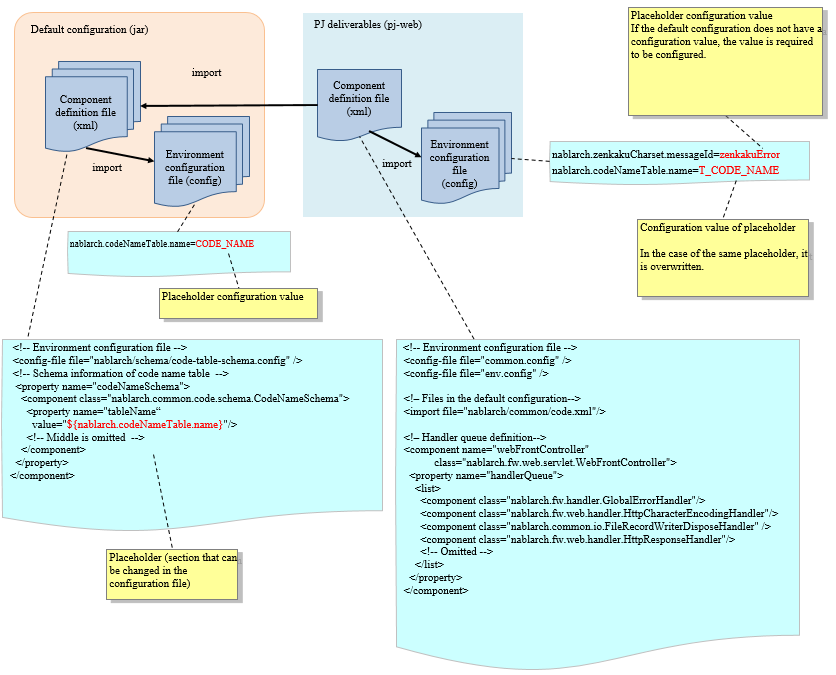
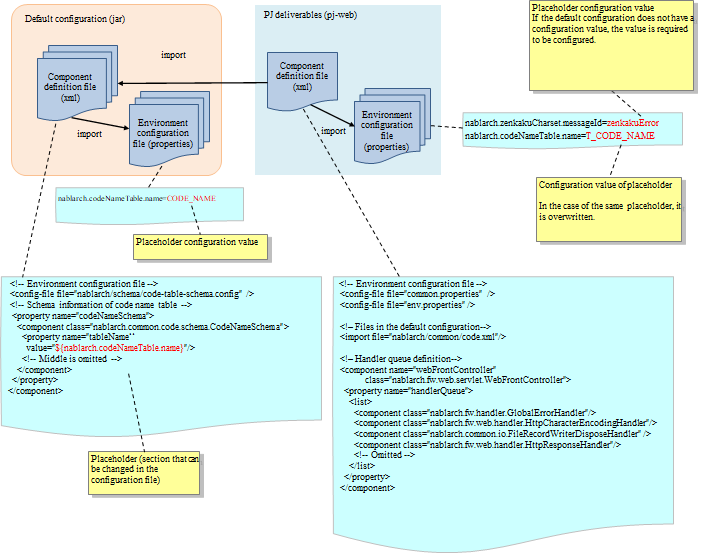
既存のconfigファイルという記述をpropertiesファイルに統一（英語）

diff --git a/en/application_framework/application_framework/blank_project/CustomizeDB.rst b/en/application_framework/application_framework/blank_project/CustomizeDB.rst
@@ -122,10 +122,10 @@ File modification
 ===========================
 
 ---------------------------------------------
-Modification of the config file
+Modification of the properties file
 ---------------------------------------------
 
-Modify the following location in env.config.
+Modify the following location in env.properties.
 
 .. list-table::
   :header-rows: 1
@@ -140,30 +140,30 @@ Modify the following location in env.config.
       jndiResourceName
     - Resource name when acquiring the DataSource with JNDI
     - * Projects generated from each archetype
-        (configure in the config file (described below) of environment that acquires connections from JNDI)
+        (configure in the properties file (described below) of environment that acquires connections from JNDI)
   * - nablarch.db.jdbcDriver
     - JDBC driver class name
     - * Projects generated from each archetype
-        (configure in the config file (described below) of environments that create local connection pools)
+        (configure in the properties file (described below) of environments that create local connection pools)
   * - nablarch.db.url
     - Database connection URL
     - * Projects generated from each archetype
-        (configure in the config file (described below) of environments that create local connection pools)
+        (configure in the properties file (described below) of environments that create local connection pools)
   * - nablarch.db.user
     - Database access user name
     - * Projects generated from each archetype
-        (configure in the config file (described below) of environments that create local connection pools)
+        (configure in the properties file (described below) of environments that create local connection pools)
   * - nablarch.db.password
     - Database access user password
     - * Projects generated from each archetype
-        (configure in the config file (described below) of environments that create local connection pools)
+        (configure in the properties file (described below) of environments that create local connection pools)
   * - nablarch.db.schema
     - Connection schema name
     - * Nablarch testing framework
 
 
 
-Immediately after a project is generated from an archetype, the following applies to the "config file of the environment that acquires connections from JNDI".
+Immediately after a project is generated from an archetype, the following applies to the "properties file of the environment that acquires connections from JNDI".
 
 .. list-table::
   :header-rows: 1
@@ -174,14 +174,14 @@ Immediately after a project is generated from an archetype, the following applie
     - Config file of the environment that acquires connections from JNDI
   * - * Web
       * RESTful web service
-    - * Production environment config(src/env/prod/resources/env.config)
+    - * Production environment properties(src/env/prod/resources/env.properties)
   * - * JSR352-compliant batch
       * Nablarch batch
       * Web for container
       * RESTful web service for container
     - No
 
-Immediately after creating a project from an archetype, the following applies to the "config file of environments that create local connection pools".
+Immediately after creating a project from an archetype, the following applies to the "properties file of environments that create local connection pools".
 
 .. list-table::
   :header-rows: 1
@@ -189,19 +189,19 @@ Immediately after creating a project from an archetype, the following applies to
   :widths: 4,6
 
   * - Project type
-    - config file of environments that create local connection pools
+    - properties file of environments that create local connection pools
   * - * Web
       * RESTful web service
-    - * Unit test environment (manual test) config (src/env/dev/resources/env.config)
+    - * Unit test environment (manual test) properties (src/env/dev/resources/env.properties)
   * - * JSR352-compliant batch
       * Nablarch batch
-    - * Unit test environment (manual test) config (src/env/dev/resources/env.config)
-      * Production environment config(src/env/prod/resources/env.config)
+    - * Unit test environment (manual test) properties (src/env/dev/resources/env.properties)
+      * Production environment properties(src/env/prod/resources/env.properties)
   * - * Web for container
       * RESTful web service for container
-    - * src/main/resources/env.config - :ref:`commentary <container_production_config>`
+    - * src/main/resources/env.properties - :ref:`commentary <container_production_config>`
 
-The configuration example for a config file of the environment that creates local connection pools is shown below.
+The configuration example for a properties file of the environment that creates local connection pools is shown below.
 
 H2 configuration example (default)
 ----------------------------------------
@@ -270,7 +270,7 @@ SQL Server configuration example
 .. important::
   Depending on the DB, user names, passwords and schemas are case-sensitive.
 
-  Should be configured even in the config file as configured in the DB.
+  Should be configured even in the properties file as configured in the DB.
 
 .. _container_production_config:
 
@@ -278,9 +278,9 @@ Production configuration of containers
 ----------------------------------------------
 
 In projects for containers, do not switch the preferences by profile.
-Instead, it uses the OS environment variable of the environment in which the application will run to override the configuration values declared in ``env.config``.
+Instead, it uses the OS environment variable of the environment in which the application will run to override the configuration values declared in ``env.properties``.
 
-Thus, the configuration in ``src/main/resources/env.config`` is used in the environment where OS environment variables are not set.
+Thus, the configuration in ``src/main/resources/env.properties`` is used in the environment where OS environment variables are not set.
 When running in a production container environment, the OS environment variables must be used to properly override environment-dependent values such as ``nablarch.db.url``.
 
 See :ref:`repository-overwrite_env_env_configuration_by_os_env_var` for how to overwrite the configuration in OS environment variables.

diff --git a/en/application_framework/application_framework/setting_guide/ManagingEnvironmentalConfiguration/index.rst b/en/application_framework/application_framework/setting_guide/ManagingEnvironmentalConfiguration/index.rst
@@ -68,30 +68,30 @@ The directory structure concerning the application configuration files of the pr
     |
     \---src
         +---env
-        |   +---dev                … development environment
+        |   +---dev                   … development environment
         |   |   |
-        |   |   \---env.config     … Environment configuration file for development environment (config)
+        |   |   \---env.properties    … Environment configuration file for development environment (properties)
         |   |
-        |   \---prod               … Production environment
+        |   \---prod                  … Production environment
         |       |
-        |       \---env.config     … Environment configuration file for production environment (config)
+        |       \---env.properties    … Environment configuration file for production environment (properties)
         |
         +---main
         |   +---java
         |   |
-        |   +---resources          … Resources that do not differ for each environment
+        |   +---resources             … Resources that do not differ for each environment
         |       |
-        |       \---common.config  … Environment-independent configuration files (config)
+        |       \---common.properties … Environment-independent configuration files (properties)
         |
         \---test
             +---java
             |
-            \---resources          … Unit test environment
+            \---resources             … Unit test environment
 
 
 .. tip::
 
- * The environment-independent environment configuration file (config) is used in all environments.
+ * The environment-independent environment configuration file (properties) is used in all environments.
  * If the environment is not sufficient, see :ref:`how_to_add_profile` below to add an environment.
  * When using a common project that is referenced from an execution-based project (such as web application, batch application), the application configuration files for each environment of the single common project are not required.
 
@@ -136,7 +136,7 @@ The operation when built with Maven by specifying the production environment in 
 
 .. tip::
 
- In the above figure, only the "component configuration file (xml)" and "environment configuration value definition file (config file)" are described, but all the files under resources are copied.
+ In the above figure, only the "component configuration file (xml)" and "environment configuration value definition file (properties file)" are described, but all the files under resources are copied.
 
 
 .. tip::
@@ -192,12 +192,12 @@ Place the created component configuration file in the directory of each environm
 How to switch the environment configuration value for each environment
 ========================================================================
 
-This is achieved by switching the environment configuration file (env.config) placed in each environment.
+This is achieved by switching the environment configuration file (env.properties) placed in each environment.
 
 .. tip::
 
- * Configuration items that are unlikely to change in each environment are described in common.config immediately after being generated from the archetype. |br|
-   To change the values described in common.config for each environment, move (cut and paste) the items to env.config.
+ * Configuration items that are unlikely to change in each environment are described in common.properties immediately after being generated from the archetype. |br|
+   To change the values described in common.properties for each environment, move (cut and paste) the items to env.properties.
 
 
 .. _how_to_add_profile:

diff --git a/en/application_framework/application_framework/setting_guide/CustomizingConfigurations/index.rst b/en/application_framework/application_framework/setting_guide/CustomizingConfigurations/index.rst
@@ -76,13 +76,13 @@ See \ :doc:`config_key_naming`\ for the naming rules for configuration item name
 Modifying the configuration items where TODO comment is embedded
 ~~~~~~~~~~~~~~~~~~~~~~~~~~~~~~~~~~~~~~~~~~~~~~~~~~~~~~~~~~~~~~~~~
 
-TODO comment is embedded in the configuration file (config file) at places to be modified almost certainly in each project, such as DB connection configuration. Modify the set values at such places.
+TODO comment is embedded in the configuration file (properties file) at places to be modified almost certainly in each project, such as DB connection configuration. Modify the set values at such places.
 
 
 Changing the default value if the PJ requirements are not met with the default value
 ~~~~~~~~~~~~~~~~~~~~~~~~~~~~~~~~~~~~~~~~~~~~~~~~~~~~~~~~~~~~~~~~~~~~~~~~~~~~~~~~~~~~~
 
-Check the \ :download:`Default configuration list <../../configuration/default-configuration-list.xlsx>`\  and wherever the default value does not meet the PJ requirements, modify the configuration file (config file).
+Check the \ :download:`Default configuration list <../../configuration/default-configuration-list.xlsx>`\  and wherever the default value does not meet the PJ requirements, modify the configuration file (properties file).
 
 
 .. _how_to_customize_overwite_config_files:
@@ -90,7 +90,7 @@ Check the \ :download:`Default configuration list <../../configuration/default-c
 Overriding environment configuration values
 --------------------------------------------
 
-If you want to override the environment configuration values configured in the configuration file (config) of the default configuration, redefine them with a placeholder of the same name.
+If you want to override the environment configuration values configured in the configuration file (properties) of the default configuration, redefine them with a placeholder of the same name.
 
 In the \ :download:`Default configuration list <../../configuration/default-configuration-list.xlsx>`\, you can check the contents configured in the default configuration.
 
@@ -193,7 +193,7 @@ To change the handler configuration in PJ, edit this file.
 Example of configuration change
 ================================
 
-See below for specific examples of changing the configuration of the component configuration file and the configuration file (config file).
+See below for specific examples of changing the configuration of the component configuration file and the configuration file (properties file).
 
 * :doc:`CustomizeMessageIDAndMessage`
 * :doc:`CustomizeAvailableCharacters`

diff --git a/en/application_framework/adaptors/lettuce_adaptor/redisstore_lettuce_adaptor.rst b/en/application_framework/adaptors/lettuce_adaptor/redisstore_lettuce_adaptor.rst
@@ -51,8 +51,8 @@ Describes how to modify the component definition file.
 
   <!-- Omitted -->
   <config-file file="nablarch/webui/redisstore-lettuce.config" />
-  <config-file file="common.config" />
-  <config-file file="env.config" />
+  <config-file file="common.properties" />
+  <config-file file="env.properties" />
   
   <!-- Omitted -->
   <import file="nablarch/webui/redisstore-lettuce.xml" />
@@ -65,7 +65,7 @@ First, load the following two configuration files, which are provided by the def
 
 ``redisstore-lettuce.config`` has already declared the default values for the placeholders used in ``redisstore-lettuce.xml`` .
 
-If your application has a configuration file (such as ``env.config`` ), ``redisstore-lettuce.config`` should be loaded before it.
+If your application has a configuration file (such as ``env.properties`` ), ``redisstore-lettuce.config`` should be loaded before it.
 This way, can override the default placeholder values with the application's configuration file, if necessary.
 
 In addition, by using the methods described in Overriding Environment Dependencies with :ref:`repository-overwrite_environment_configuration_by_os_env_var` , it is possible to switch the destination Redis for each execution environment.
@@ -135,7 +135,7 @@ In the project's configuration file, define a configuration item named ``nablarc
 
 .. tip::
 
-  If you are creating a project with :ref:`web archetype <firstStepGenerateWebBlankProject>` , ``nablarch.sessionManager.defaultStoreName`` is declared in ``src/main/resources/common.config`` .
+  If you are creating a project with :ref:`web archetype <firstStepGenerateWebBlankProject>` , ``nablarch.sessionManager.defaultStoreName`` is declared in ``src/main/resources/common.properties`` .
 
 
 Now can use Redis running on port ``6379`` of the ``localhost`` as a session store.

diff --git a/en/application_framework/application_framework/libraries/data_io/data_format.rst b/en/application_framework/application_framework/libraries/data_io/data_format.rst
@@ -582,7 +582,7 @@ The collate function is used to replace with any character available in the syst
 The usage method is shown below.
 
 Create a property to define the replacement rules.
-  In the property file, define the replacement rule in the "Character before replacement = Character after replacement" format.
+  In the properties file, define the replacement rule in the "Character before replacement = Character after replacement" format.
 
   Only one character can be defined as the value for the character before and after replacement. Also, surrogate pairs are not supported.
 
@@ -595,13 +595,13 @@ Create a property to define the replacement rules.
     唖=■
 
   .. tip::
-    To define the replacement rules for each connection destination, create multiple config files.
+    To define the replacement rules for each connection destination, create multiple properties files.
 
 Add the replacement rule configuration to the component configuration file
   Point
     * Configure :java:extdoc:`CharacterReplacementManager <nablarch.core.dataformat.CharacterReplacementManager>` with component name ``characterReplacementManager`` .
     * Configure :java:extdoc:`CharacterReplacementConfig <nablarch.core.dataformat.CharacterReplacementConfig>` in list format to the :java:extdoc:`configList <nablarch.core.dataformat.CharacterReplacementManager.setConfigList(java.util.List)>` property.
-    * To define multiple property files, configure different names for the :java:extdoc:`typeName <nablarch.core.dataformat.CharacterReplacementConfig.setTypeName(java.lang.String)>` property.
+    * To define multiple properties files, configure different names for the :java:extdoc:`typeName <nablarch.core.dataformat.CharacterReplacementConfig.setTypeName(java.lang.String)>` property.
 
 
   .. code-block:: xml

diff --git a/en/application_framework/application_framework/setting_guide/CustomizingConfigurations/CustomizeMessageIDAndMessage.rst b/en/application_framework/application_framework/setting_guide/CustomizingConfigurations/CustomizeMessageIDAndMessage.rst
@@ -16,9 +16,9 @@ For the message management function in Nablarch, see :doc:`../../libraries/messa
 How to change the link between error content and message ID
 ============================================================
 
-Error content is linked to the message ID in src/main/resources/common.config
+Error content is linked to the message ID in src/main/resources/common.properties
 
-In common.config, the item described as "Message ID of XXX (XXXのメッセージID)" in the comment, is the item that links the error content to the message ID.
+In common.properties, the item described as "Message ID of XXX (XXXのメッセージID)" in the comment, is the item that links the error content to the message ID.
 
 For example, in the following statement, M000000017 is the message ID.
 

diff --git a/en/application_framework/application_framework/libraries/tag.rst b/en/application_framework/application_framework/libraries/tag.rst
@@ -2532,7 +2532,7 @@ To avoid this problem, a function is provided in which a version is appended to 
 
 As a result, the latest static content can be referenced instead of the cache in the client when the static content is replaced.
 
-The version of the static content that is added using parameters is configured in the :ref:`configuration file (config file)<repository-environment_configuration>`.
+The version of the static content that is added using parameters is configured in the :ref:`configuration file (properties file)<repository-environment_configuration>`.
 This function is disabled if the version of the static content is not configured in the configuration file.
 
 The version of the static content is specified with the key name ``static_content_version``.

diff --git a/en/application_framework/application_framework/setting_guide/CustomizingConfigurations/CustomizeSystemTableName.rst b/en/application_framework/application_framework/setting_guide/CustomizingConfigurations/CustomizeSystemTableName.rst
@@ -15,7 +15,7 @@ How to Change
 
 The following are the examples of blank projects generated from each archetype provided by Nablarch, where the table name used by the Nablarch framework is uniformly changed to "T_Table name".
 
-Add table configuration required for the function used by a project in src/main/resources/common.config. The necessary configuration and the configuration examples for each function are described below:
+Add table configuration required for the function used by a project in src/main/resources/common.properties. The necessary configuration and the configuration examples for each function are described below:
 
  .. code-block:: properties
     

diff --git a/en/development_tools/testing_framework/guide/development_guide/05_UnitTestGuide/02_RequestUnitTest/http_real.rst b/en/development_tools/testing_framework/guide/development_guide/05_UnitTestGuide/02_RequestUnitTest/http_real.rst
@@ -120,7 +120,7 @@ The request statement that is the input data for the test is described. An examp
 .. important::
 
   If the item of the framework control header is changed by project,
-  it is necessary to specify the framework control header name with the key ``reader.fwHeaderfields`` in the config file as follows.
+  it is necessary to specify the framework control header name with the key ``reader.fwHeaderfields`` in the properties file as follows.
 
   .. code-block:: properties
 

diff --git a/en/development_tools/testing_framework/guide/development_guide/05_UnitTestGuide/02_RequestUnitTest/real.rst b/en/development_tools/testing_framework/guide/development_guide/05_UnitTestGuide/02_RequestUnitTest/real.rst
@@ -167,7 +167,7 @@ The request statement that is the input data for the test is described. An examp
 .. important::
 
   If the item of the framework control header is changed by project,
-  it is necessary to specify the framework control header name with the key ``reader.fwHeaderfields`` in the config file as follows.
+  it is necessary to specify the framework control header name with the key ``reader.fwHeaderfields`` in the properties file as follows.
 
   .. code-block:: properties
 

diff --git a/en/application_framework/application_framework/messaging/db/getting_started/table_queue.rst b/en/application_framework/application_framework/messaging/db/getting_started/table_queue.rst
@@ -11,7 +11,7 @@ Overview of the function to be created
 
 Execution procedure of the example application
   SQL should be executed within the procedure after connecting any arbitrary database client to H2.
-  For information on the connection destination, see ``config/database.config``.
+  For information on the connection destination, see ``config/database.properties``.
 
   1. Delete data in the project table.
 

diff --git a/en/application_framework/application_framework/libraries/database/database.rst b/en/application_framework/application_framework/libraries/database/database.rst
@@ -398,7 +398,7 @@ Implementation examples
 
 .. tip::
 
-  Access method to Bean can be changed from property to field. For changing to field access method, add the following configuration to the config file.
+  Access method to Bean can be changed from property to field. For changing to field access method, add the following configuration to the properties file.
 
   .. code-block:: properties
 
